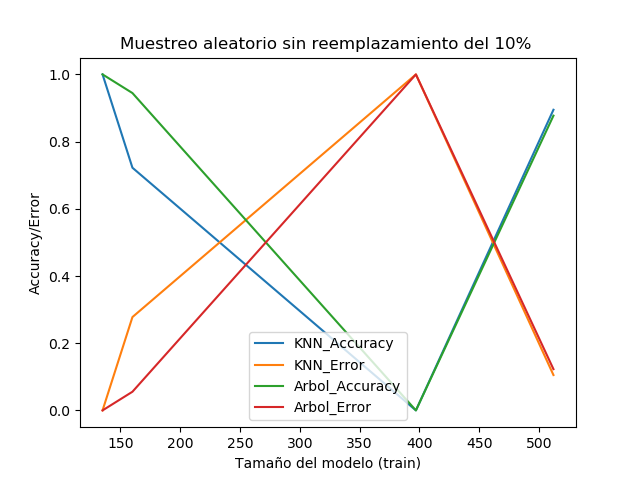
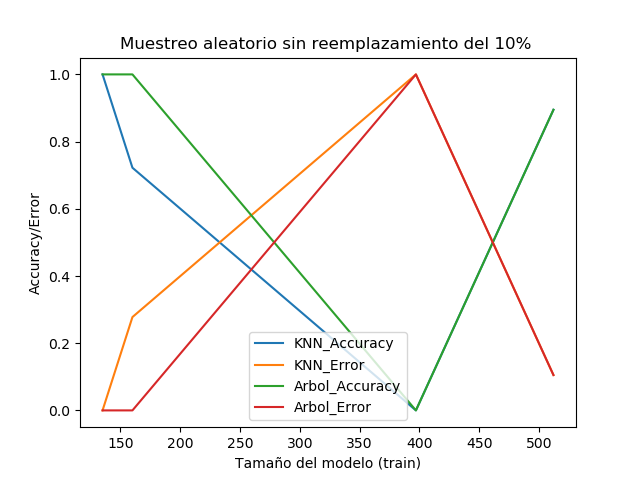
Finalizacion ejercicio5

diff --git a/PRACTICAS/PRACTICA1/ejercicio5/ejercicio5.py b/PRACTICAS/PRACTICA1/ejercicio5/ejercicio5.py
@@ -125,4 +125,95 @@ plt.title('Muestreo aleatorio sin reemplazamiento del 10% ')
 plt.legend()
 plt.savefig("images/Comparacion.png")
 
+# Limpiamos las listas
+knn_size.clear(); knn_accuracy.clear(); knn_error.clear()
+arbol_size.clear(); arbol_accuracy.clear(); arbol_error.clear()
+
+# Limpiamos los datos de generacion del grafico
+plt.clf() # Clear the figure
+
+# Split data into training and test sets 10% instancias con muestreo estratificado
+X_train_iris, X_test_iris, y_train_iris, y_test_iris = train_test_split(X_iris, y_iris, test_size=0.1, random_state=0, stratify=y_iris)
+X_train_wine, X_test_wine, y_train_wine, y_test_wine = train_test_split(X_wine, y_wine, test_size=0.1, random_state=0, stratify=y_wine)
+# X_train_diabetes, X_test_diabetes, y_train_diabetes, y_test_diabetes = train_test_split(X_diabetes, y_diabetes, test_size=0.33, random_state=32, stratify=y_diabetes)
+X_train_breast_cancer, X_test_breast_cancer, y_train_breast_cancer, y_test_breast_cancer = train_test_split(X_breast_cancer, y_breast_cancer, test_size=0.1, random_state=0, stratify=y_breast_cancer)
+
+# Tamano de los datos de entrenamiento
+knn_size.append(len(X_train_iris))
+knn_size.append(len(X_train_wine))
+# knn_size.append(len(X_train_diabetes))
+knn_size.append(len(X_train_breast_cancer))
+arbol_size.append(len(X_train_iris))
+arbol_size.append(len(X_train_wine))
+# arbol_size.append(len(X_train_diabetes))
+arbol_size.append(len(X_train_breast_cancer))
+
+
+# Entrenamos el modelo iris
+model.fit(X_train_iris, y_train_iris)
+model2.fit(X_train_iris, y_train_iris)
+
+# Hacemos las predicciones iris
+y_pred_iris = model.predict(X_test_iris)
+y_pred2_iris = model2.predict(X_test_iris)
+
+# Calculamos la precision iris
+knn_accuracy.append(metrics.accuracy_score(y_test_iris, y_pred_iris))
+arbol_accuracy.append(metrics.accuracy_score(y_test_iris, y_pred2_iris))
+
+# Calculamos el error iris
+knn_error.append(1-metrics.accuracy_score(y_test_iris, y_pred_iris))
+arbol_error.append(1-metrics.accuracy_score(y_test_iris, y_pred2_iris))
+
+# Entrenamos el modelo wine
+model.fit(X_train_wine, y_train_wine)
+model2.fit(X_train_wine, y_train_wine)
+
+# Hacemos las predicciones wine
+y_pred_wine = model.predict(X_test_wine)
+y_pred2_wine = model2.predict(X_test_wine)
+
+# Calculamos la precision wine
+knn_accuracy.append(metrics.accuracy_score(y_test_wine, y_pred_wine))
+arbol_accuracy.append(metrics.accuracy_score(y_test_wine, y_pred2_wine))
+
+# Calculamos el error wine
+knn_error.append(1-metrics.accuracy_score(y_test_wine, y_pred_wine))
+arbol_error.append(1-metrics.accuracy_score(y_test_wine, y_pred2_wine))
+
+# Entrenamos el modelo diabetes
+
+# Hacemos las predicciones diabetes
+
+# Calculamos la precision diabetes
+
+# Calculamos el error diabetes
+
+# Entrenamos el modelo breast cancer
+model.fit(X_train_breast_cancer, y_train_breast_cancer)
+model2.fit(X_train_breast_cancer, y_train_breast_cancer)
+
+# Hacemos las predicciones breast cancer
+y_pred_breast_cancer = model.predict(X_test_breast_cancer)
+y_pred2_breast_cancer = model2.predict(X_test_breast_cancer)
+
+# Calculamos la precision breast cancer
+knn_accuracy.append(metrics.accuracy_score(y_test_breast_cancer, y_pred_breast_cancer))
+arbol_accuracy.append(metrics.accuracy_score(y_test_breast_cancer, y_pred2_breast_cancer))
+
+# Calculamos el error breast cancer
+knn_error.append(1-metrics.accuracy_score(y_test_breast_cancer, y_pred_breast_cancer))
+arbol_error.append(1-metrics.accuracy_score(y_test_breast_cancer, y_pred2_breast_cancer))
+
+# Generamos el grafico de accuracy y error
+plt.plot(knn_size, knn_accuracy, label='KNN_Accuracy')
+plt.plot(knn_size, knn_error, label='KNN_Error')
+plt.plot(arbol_size, arbol_accuracy, label='Arbol_Accuracy')
+plt.plot(arbol_size, arbol_error, label='Arbol_Error')
+plt.xlabel('Tamaño del modelo (train)')
+plt.ylabel('Accuracy/Error')
+plt.title('Muestreo estratificado del 10% ')
+plt.legend()
+plt.savefig("images/MuestreoEstratificado.png")
+plt.show()
 
